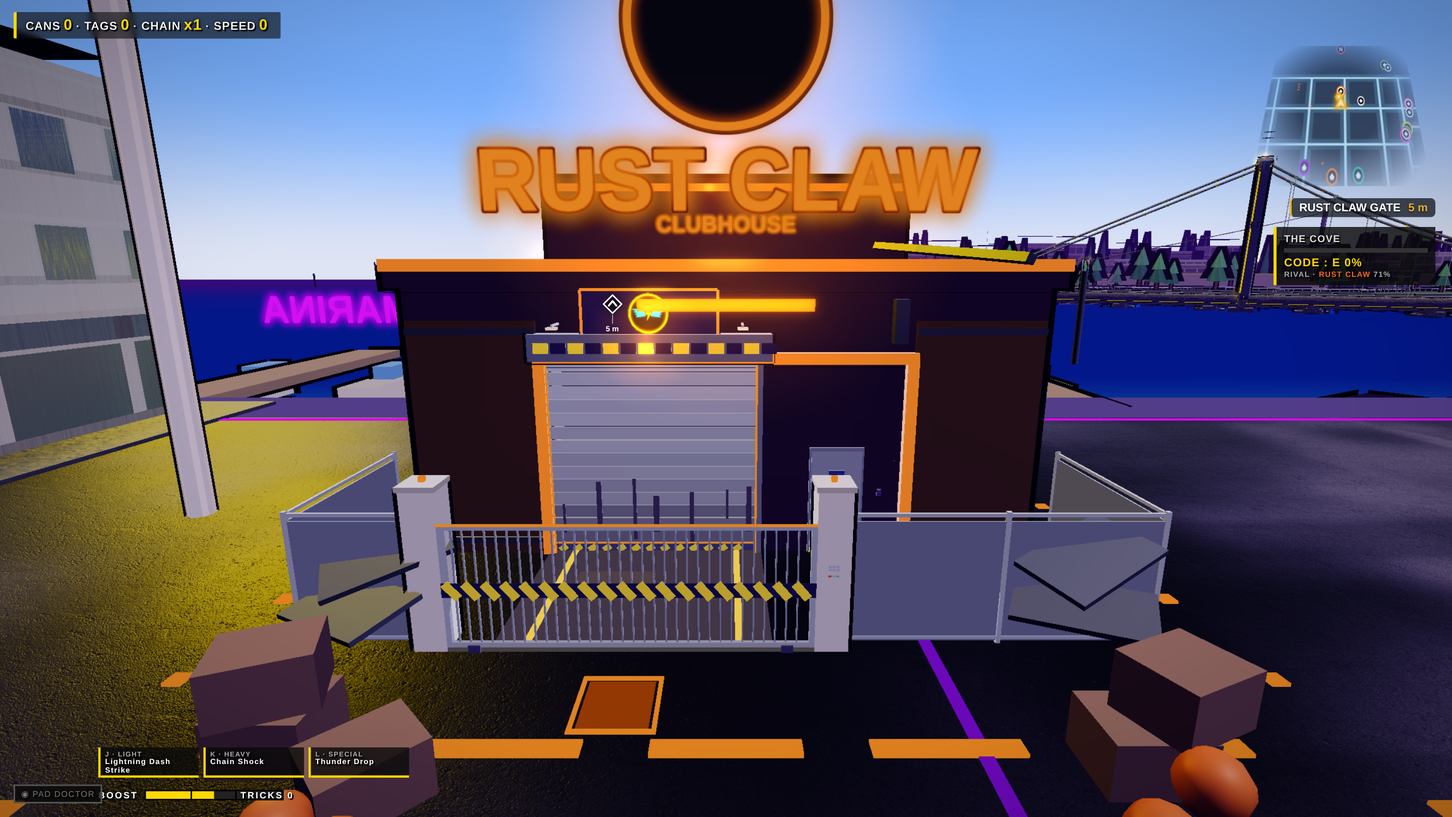
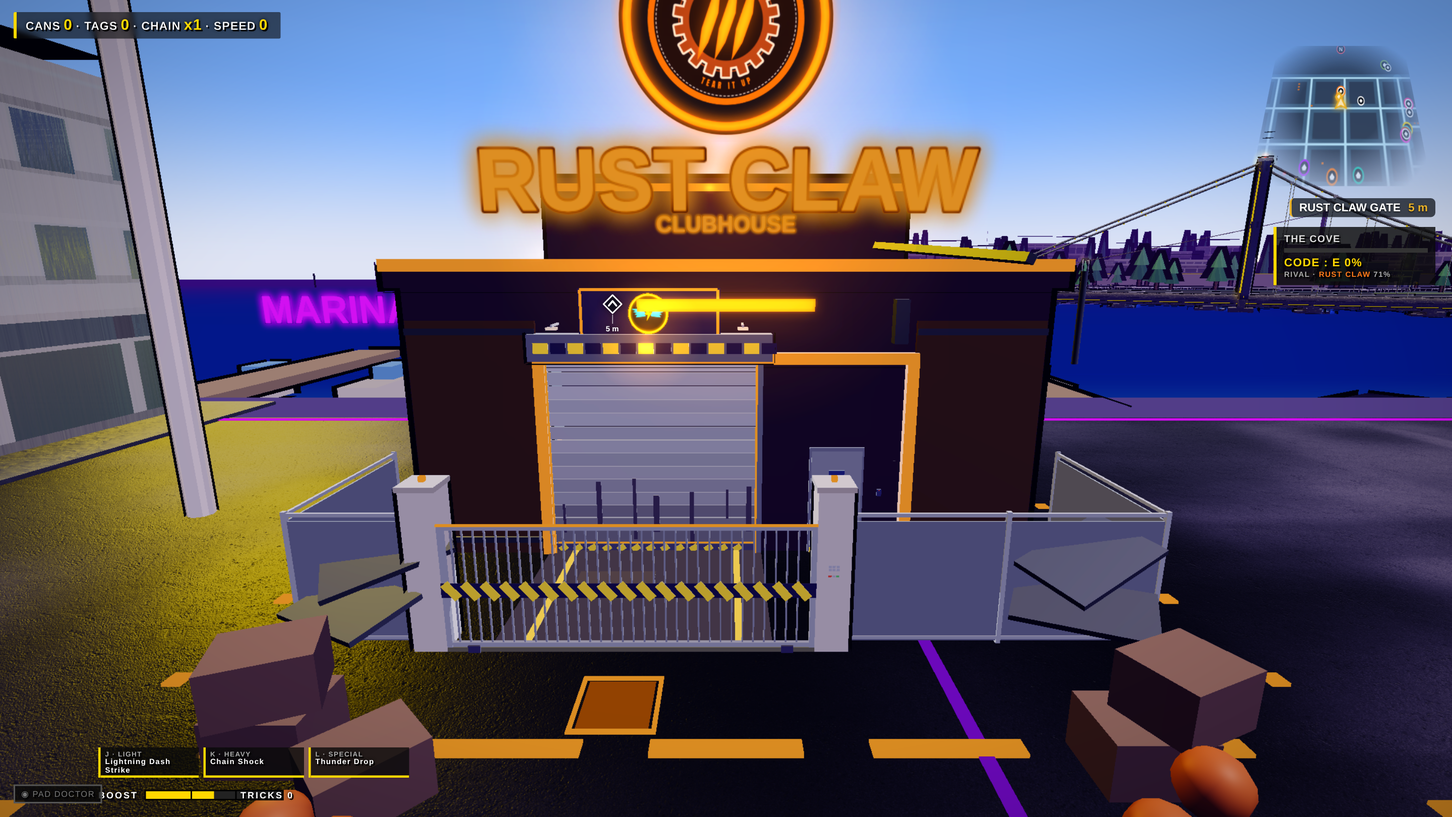
Palma Builder: Ani Volt/RustClaw garage review fixes + CREW_RIVALS
Volt cam/canopy 3.76m, kit emblems slot 8/9, MARINA ry=0, kitTheme←CREW_RIVALS.
Gate PASS; dcsplit2 causeway world 101.7; heroes re-shot (v1 kept).

diff --git a/handover/palma-builder/code/crewhouse_kit.js b/handover/palma-builder/code/crewhouse_kit.js
@@ -5,13 +5,12 @@
 (function(){
 const KIT_LOGO_SLOT={codee:0,karasu:1,static:2,behemoth:3,anubis:4,ttt:5,genesis:6,forest:7,volt:8,rustclaw:9}; // volt=shared/crew-logos/volt.png slot8; rustclaw=rust-claw.png slot9 (packed 2026-11-05)
 // per-crew theme: c1 = neon (crews.js defaults.wheelGlow), c2 = accent (crews.js defaults.gold), name = world.js PALMA.garages name
-function kitTheme(gid){ const G=(PALMA.garages||[]).find(q=>q.crew===gid)||{name:gid,color:"#00E5FF"}; const cr=(typeof CREWS!=='undefined'?CREWS:[]).find(q=>q.garage===gid);
+function kitTheme(gid){ const G=(PALMA.garages||[]).find(q=>q.crew===gid)||{name:gid,color:"#00E5FF"};
+  // CREWS = playable; CREW_RIVALS = Volt/Rust Claw (Systems, kept out of CREWS on purpose). Same defaults.wheelGlow/gold keys.
+  const cr=(typeof CREWS!=='undefined'?CREWS:[]).find(q=>q.garage===gid)||(typeof CREW_RIVALS!=='undefined'&&CREW_RIVALS.find(q=>q.garage===gid));
   const d=cr&&cr.defaults||{}; const T={id:gid,name:G.name,c1:d.wheelGlow!=null?d.wheelGlow:new THREE.Color(G.color).getHex(),c2:d.gold!=null?d.gold:0xb040ff,logo:KIT_LOGO_SLOT[gid]||0,
     sign:"AirTrecks",poster:G.name+" CREW",bay:[G.name,"GARAGE BAY 01","A-T TUNING & OPS"],street:"PALMA CITY"};
   if(gid==="karasu") Object.assign(T,{c1:0x00e5ff,c2:0x9a3cff,sign:"AirTrecks",poster:"KARASU CREW",bay:["KOGARASUMARU","GARAGE BAY 01","A-T TUNING & OPS"]}); // locked ref palette, purple accents downstairs
-  // TODO(Rydah Systems): Volt + Rust Claw not in crews.js yet — colours from graffiti.js GRAF_CREWS fallbacks; swap to crews.js defaults when landed
-  if(gid==="volt") Object.assign(T,{c1:0xff2fa0,c2:0xffe600,sign:"AirTrecks",poster:"VOLT CREW",bay:["VOLT","GARAGE BAY 01","A-T TUNING & OPS"]});
-  if(gid==="rustclaw") Object.assign(T,{c1:0xff6a1a,c2:0x8b3a1a,sign:"AirTrecks",poster:"RUST CLAW CREW",bay:["RUST CLAW","GARAGE BAY 01","A-T TUNING & OPS"]});
   return Object.assign(T,(window.KIT_THEME_OVERRIDE||{})[gid]||{}); }
 window.kitTheme=kitTheme; window.KOG_THEME=null;
 
@@ -521,29 +520,31 @@ function kitExtMerge(geos,mat,parent,name){ const ok=geos.filter(Boolean); if(!o
 function kitExtPushCol(G,boxes){ const th=G.th,[gx,gz]=G.pos; const W=(lx,lz)=>[gx+lx*Math.cos(th)+lz*Math.sin(th), gz-lx*Math.sin(th)+lz*Math.cos(th)];
   for(const [a0,a1,b0,b1] of boxes){ const a=W(a0,b0), b=W(a1,b1); colliders.push({minX:Math.min(a[0],b[0]),maxX:Math.max(a[0],b[0]),minZ:Math.min(a[1],b[1]),maxZ:Math.max(a[1],b[1]),kit_ext:1,g:G}); } }
 function kitExtVolt(G){ // EV charging plaza: canopy + glass kiosk + bollards + neon (target ~5 draws)
+  // Canopy underside clearance >=3.5 m (deck y=3.85, th=.18 -> underside 3.76). No footprint AABB (2D colliders would block under-pass); posts+kiosk+bollards already collide. Thin deck is non-walkable (no ground height).
   const M=kitExtMats(), root=new THREE.Group(); root.name='kit_ext_volt'; root.userData.noMerge=true; G.group.add(root);
-  const c1=new THREE.Color(G.color||'#ff2fa0'), accent=new THREE.Color('#ffe600');
+  const th=kitTheme(G.crew), c1=new THREE.Color(th.c1), accent=new THREE.Color(th.c2);
   const neon1=kitExtNeon(c1.getHex()), neon2=kitExtNeon(accent.getHex());
   // draw 1: dark body (canopy deck + kiosk shell)
-  kitExtMerge([kitExtBox(10.5,.18,6.2,0,3.55,5.2), kitExtBox(2.2,2.6,2.0,-5.2,1.3,6.5)], M.dark, root, 'kit_ext_volt_dark');
-  // draw 2: steel (canopy posts + kiosk roof)
-  kitExtMerge([kitExtCyl(.09,.11,3.5,-4.6,1.75,3.0),kitExtCyl(.09,.11,3.5,-4.6,1.75,7.2),kitExtCyl(.09,.11,3.5,4.6,1.75,3.0),kitExtCyl(.09,.11,3.5,4.6,1.75,7.2),kitExtBox(2.3,.12,2.1,-5.2,2.66,6.5)], M.steel, root, 'kit_ext_volt_steel');
+  kitExtMerge([kitExtBox(10.5,.18,6.2,0,3.85,5.2), kitExtBox(2.2,2.6,2.0,-5.2,1.3,6.5)], M.dark, root, 'kit_ext_volt_dark');
+  // draw 2: steel (canopy posts + kiosk roof) — posts h=3.76 @ cy=1.88 reach deck underside
+  kitExtMerge([kitExtCyl(.09,.11,3.76,-4.6,1.88,3.0),kitExtCyl(.09,.11,3.76,-4.6,1.88,7.2),kitExtCyl(.09,.11,3.76,4.6,1.88,3.0),kitExtCyl(.09,.11,3.76,4.6,1.88,7.2),kitExtBox(2.3,.12,2.1,-5.2,2.66,6.5)], M.steel, root, 'kit_ext_volt_steel');
   // draw 3: neon primary (canopy edge + LED strips + yard strip)
-  kitExtMerge([kitExtBox(10.7,.06,6.4,0,3.48,5.2),kitExtBox(9.6,.04,.08,0,3.42,3.4),kitExtBox(9.6,.04,.08,0,3.42,5.2),kitExtBox(9.6,.04,.08,0,3.42,7.0),kitExtBox(9.5,.03,.2,0,.04,8.2)], neon1, root, 'kit_ext_volt_neon1');
+  kitExtMerge([kitExtBox(10.7,.06,6.4,0,3.78,5.2),kitExtBox(9.6,.04,.08,0,3.72,3.4),kitExtBox(9.6,.04,.08,0,3.72,5.2),kitExtBox(9.6,.04,.08,0,3.72,7.0),kitExtBox(9.5,.03,.2,0,.04,8.2)], neon1, root, 'kit_ext_volt_neon1');
   // draw 4: neon accent (kiosk bar + 4 cable arms as boxes)
   kitExtMerge([kitExtBox(1.6,.18,.06,-5.2,2.4,7.55),kitExtBox(.06,1.4,.06,-2.2,2.7,4.2),kitExtBox(.06,1.4,.06,-.4,2.7,4.2),kitExtBox(.06,1.4,.06,1.4,2.7,4.2),kitExtBox(.06,1.4,.06,3.2,2.7,4.2)], neon2, root, 'kit_ext_volt_neon2');
   // draw 5: glass kiosk pane
   kitExtMerge([kitExtBox(1.9,1.6,.06,-5.2,1.5,7.52)], M.glass, root, 'kit_ext_volt_glass');
-  // draw 6: bollards InstancedMesh + neon rings shared via second IM would be draw 7 — bake rings into neon1? Keep 1 IM for bollards only
+  // draw 6: bollards InstancedMesh
   const bGeo=new THREE.CylinderGeometry(.18,.22,1.15,10); const boll=new THREE.InstancedMesh(bGeo,M.boll,4); boll.name='kit_ext_volt_bollards'; boll.userData.noMerge=true; boll.userData.mod='kit_ext';
   const _m=new THREE.Matrix4(),_q=new THREE.Quaternion(),_s=new THREE.Vector3(1,1,1),_p=new THREE.Vector3();
   [[-2.2,4.2],[-.4,4.2],[1.4,4.2],[3.2,4.2]].forEach((xz,i)=>{ _p.set(xz[0],.58,xz[1]); _m.compose(_p,_q,_s); boll.setMatrixAt(i,_m); });
   root.add(boll);
+  // kiosk + bollard row only (canopy footprint intentionally NOT an xz collider — would block the 3.76 m under-pass)
   kitExtPushCol(G,[[-6.3,-4.1,5.5,7.6],[-2.5,3.5,3.9,4.6]]);
   G.extVariant=root; return root; }
 function kitExtRustClaw(G){ // corrugated salvage shed + marina salvage (target ~6 draws)
   const M=kitExtMats(), root=new THREE.Group(); root.name='kit_ext_rustclaw'; root.userData.noMerge=true; G.group.add(root);
-  const c1=new THREE.Color(G.color||'#ff6a1a'); const neon1=kitExtNeon(c1.getHex());
+  const th=kitTheme(G.crew), c1=new THREE.Color(th.c1); const neon1=kitExtNeon(c1.getHex());
   const _m=new THREE.Matrix4(),_q=new THREE.Quaternion(),_s=new THREE.Vector3(1,1,1),_p=new THREE.Vector3();
   // draw 1: corrugated panels (InstancedMesh)
   const panelGeo=new THREE.BoxGeometry(2.4,4.6,.08); const panels=new THREE.InstancedMesh(panelGeo,M.corr,6); panels.name='kit_ext_rc_panels'; panels.userData.noMerge=true; panels.userData.mod='kit_ext';
@@ -571,11 +572,42 @@ function kitExtRustClaw(G){ // corrugated salvage shed + marina salvage (target 
   // Fold hook into steel draw by approximating with small boxes already in steel merge; skip torus to hold budget.
   kitExtPushCol(G,[[-5.8,-3.2,5.0,7.4],[3.4,5.8,5.2,7.2],[2.8,3.8,0,.6]]);
   G.extVariant=root; return root; }
+function kitPaintEmblem(crew,css){ // black disc + neon ring + kit_logos atlas slot (matches world.js emblemTex frame)
+  const c=document.createElement('canvas'); c.width=c.height=512; const x=c.getContext('2d');
+  x.translate(256,256); x.fillStyle='#0A0A0A'; x.beginPath(); x.arc(0,0,240,0,7); x.fill();
+  x.lineWidth=18; x.strokeStyle=css; x.shadowColor=css; x.shadowBlur=30; x.beginPath(); x.arc(0,0,222,0,7); x.stroke();
+  const i=KIT_LOGO_SLOT[crew]; if(logoReady&&i!=null){ x.shadowBlur=0; x.drawImage(LOGO,(i%4)*256,((i/4)|0)*256,256,256,-180,-180,360,360); }
+  const t=new THREE.CanvasTexture(c); t.needsUpdate=true; return t; }
+function kitFixEmblems(){ // exterior emblem discs for volt/rustclaw were empty (emblemTex has no branch). world_perf atlasSigns may already have baked the empty disc — pull those entries out and show live meshes with kit_logos. Karasu/others untouched.
+  if(!logoReady){ if(!kitFixEmblems._w){ kitFixEmblems._w=1; LOGO.addEventListener('load',kitFixEmblems); } return; }
+  if(typeof garages==='undefined') return;
+  // retry until world_perf atlas has run (SIGN.list) so we can detach; also fine if atlas never packs them
+  const fixed=[];
+  for(const G of garages){ if(G.crew!=='volt'&&G.crew!=='rustclaw') continue;
+    const tex=G._emblemTex||(G._emblemTex=kitPaintEmblem(G.crew,G.color||'#fff'));
+    G.group.traverse(o=>{ if(!o.isMesh||!o.material) return;
+      if(!(o.geometry&&o.geometry.type==='PlaneGeometry')) return;
+      if(Math.abs(o.position.y-10)>0.2) return; // exterior emblem @ H+4.8
+      if(!o.userData.kitEmblem){ o.userData.kitEmblem=1; o.userData.noMerge=true;
+        o.material=new THREE.MeshBasicMaterial({map:tex,transparent:true,side:THREE.DoubleSide,depthWrite:false,toneMapped:false}); }
+      else if(o.material&&o.material.map!==tex){ o.material.map=tex; o.material.needsUpdate=true; }
+      o.visible=true; fixed.push(o); });
+    G._emblemFixed=1; }
+  try{ const S=(typeof WORLD_PERF!=='undefined'&&WORLD_PERF.SIGN)||(typeof SIGN!=='undefined'?SIGN:null);
+    if(S&&S.list&&fixed.length){ for(let i=S.list.length-1;i>=0;i--){ const it=S.list[i]; if(!it||!it.o||!fixed.includes(it.o)) continue;
+      try{ const a=it.mesh.geometry.attributes.position; a.array.fill(it.base[0],it.j*18,it.j*18+18); a.needsUpdate=true; }catch(e){}
+      if(it.sw&&S.swaps){ try{ it.sw.dispose(); S.swaps.delete(it); }catch(e){} }
+      it.o.visible=true; it.dead=true; S.list.splice(i,1);
+      if(typeof FARCULL!=='undefined') FARCULL.push({o:it.o,cen:it.cen||it.o.getWorldPosition(new THREE.Vector3()),r:it.far||95}); } }
+  }catch(e){ console.warn('kitFixEmblems SIGN detach',e); }
+  window.KIT_EMBLEM_FIXED=true;
+  // world_perf may atlas after us (staticMerge +2.5s); re-run once more to catch late packing
+  if(!kitFixEmblems._again){ kitFixEmblems._again=1; setTimeout(kitFixEmblems,3500); } }
 function kitExtVariant(G){ if(!G||KIT_EXT.done[G.crew]) return; KIT_EXT.done[G.crew]=1;
   try{ if(G.crew==='volt') kitExtVolt(G); else if(G.crew==='rustclaw') kitExtRustClaw(G); }catch(e){ console.warn('kitExtVariant '+G.crew,e); } }
 function kitExtAll(){ if(typeof garages==='undefined'||!garages.length) return; if(!(THREE.BufferGeometryUtils&&THREE.BufferGeometryUtils.mergeBufferGeometries)) return setTimeout(kitExtAll,250); for(const G of garages) kitExtVariant(G); }
-window.kitExtVariant=kitExtVariant; window.kitExtAll=kitExtAll; window.kitExtVolt=kitExtVolt; window.kitExtRustClaw=kitExtRustClaw;
+window.kitExtVariant=kitExtVariant; window.kitExtAll=kitExtAll; window.kitExtVolt=kitExtVolt; window.kitExtRustClaw=kitExtRustClaw; window.kitFixEmblems=kitFixEmblems;
 function kitInit(){ if(typeof garages==='undefined'||!garages.length||typeof scene==='undefined'||!THREE.GLTFLoader||typeof animated==='undefined'){ return setTimeout(kitInit,300); }
-  if(/nokit/.test(location.search)) return; try{ kitExtAll(); kitBuild(); animated.push(kitTick); window.KIT_READY=true; }catch(e){ console.warn('crewhouse kit failed',e); } }
+  if(/nokit/.test(location.search)) return; try{ kitExtAll(); kitBuild(); kitFixEmblems(); animated.push(kitTick); window.KIT_READY=true; }catch(e){ console.warn('crewhouse kit failed',e); } }
 setTimeout(kitInit,0);
 })();

diff --git a/handover/palma-builder/tools/garage_hero_shots.py b/handover/palma-builder/tools/garage_hero_shots.py
@@ -1,0 +1,115 @@
+import time, os, json
+from playwright.sync_api import sync_playwright
+OUT='/workspace/v3build/shots/hero'
+os.makedirs(OUT, exist_ok=True)
+B='http://localhost:8765/v3build/palma_garages.html?chars=/skyrydahs-characters/&tier=hd&seed=1'
+DAY="(()=>{ if(typeof FACADE!=='undefined')FACADE.setDay(1); if(typeof BRIDGES!=='undefined')BRIDGES.setDay(1); try{SKY.setDay(1)}catch(e){} })()"
+NIGHT="(()=>{ if(typeof FACADE!=='undefined')FACADE.setDay(0); if(typeof BRIDGES!=='undefined')BRIDGES.setDay(0); try{SKY.setDay(0)}catch(e){} })()"
+HOOK=r'''(()=>{ if(window.__pinHook) return; window.__pinHook=1; const R=renderer,oR=R.render.bind(R);
+ const M=new THREE.Matrix4(),P=new THREE.Vector3(),T=new THREE.Vector3(),Sc=new THREE.Vector3(),UP=new THREE.Vector3(0,1,0);
+ R.render=function(s,c){ if(s===scene&&window.__pin){ const v=window.__pin;
+   if(v.crew){ const G=garages.find(g=>g.crew===v.crew); if(G){ const th=G.th,[gx,gz]=G.pos; const W=(lx,lz)=>[gx+lx*Math.cos(th)+lz*Math.sin(th), gz-lx*Math.sin(th)+lz*Math.cos(th)];
+     const rp=W(v.rlx||0,v.rlz||6); Ride.group.position.set(rp[0],v.ry||0,rp[1]); if('speed' in Ride) Ride.speed=0;
+     const cp=W(v.clx,v.clz), at=W(v.tlx,v.tlz); P.set(cp[0],v.cy,cp[1]); T.set(at[0],v.ty,at[1]);
+   }} else { Ride.group.position.set(v.rx,0,v.rz); if('speed' in Ride) Ride.speed=0; P.set(v.cx,v.cy,v.cz); T.set(v.tx,v.ty,v.tz); }
+   M.lookAt(P,T,UP); M.setPosition(P);
+   if(c.parent){ c.parent.updateMatrixWorld(true); M.premultiply(new THREE.Matrix4().copy(c.parent.matrixWorld).invert()); }
+   M.decompose(c.position,c.quaternion,Sc); c.updateMatrixWorld(true); }
+  return oR(s,c); }; })()'''
+# local garage coords: +z street. Exterior: look from street at bay. Interior: downstairs kit force.
+shots=[
+  dict(name='garage_volt_exterior_day', crew='volt', day=1, clx=0, clz=10, cy=2.3, tlx=0, tlz=-1, ty=2.0, rlx=0, rlz=8),
+  dict(name='garage_volt_exterior_night', crew='volt', day=0, clx=0, clz=10, cy=2.3, tlx=0, tlz=-1, ty=2.0, rlx=0, rlz=8),
+  dict(name='garage_volt_lot_after', crew='volt', day=1, clx=0, clz=18, cy=9, tlx=0, tlz=-4, ty=2, rlx=0, rlz=14),
+  dict(name='garage_rustclaw_exterior_day', crew='rustclaw', day=1, clx=0, clz=12, cy=5.5, tlx=0, tlz=-2, ty=2.5, rlx=0, rlz=10),
+  dict(name='garage_rustclaw_exterior_night', crew='rustclaw', day=0, clx=0, clz=12, cy=5.5, tlx=0, tlz=-2, ty=2.5, rlx=0, rlz=10),
+  dict(name='garage_rustclaw_lot_after', crew='rustclaw', day=1, clx=0, clz=18, cy=9, tlx=0, tlz=-4, ty=2, rlx=0, rlz=14),
+]
+# emblem regression (volt/rustclaw filled; karasu still procedural) — run after first exterior day pins
+EMBLEM_CHECK=r"""(() => {
+  const out={};
+  for(const crew of ['volt','rustclaw','karasu']){
+    const G=garages.find(g=>g.crew===crew); if(!G){ out[crew]={ok:false,why:'noG'}; continue; }
+    let found=null;
+    G.group.traverse(o=>{ if(found||!o.isMesh||!o.material||!o.material.map) return;
+      if(!(o.geometry&&o.geometry.type==='PlaneGeometry')) return;
+      if(Math.abs(o.position.y-10)>0.2) return;
+      const img=o.material.map.image; if(!img||!img.getContext) { found={ok:false,why:'noCanvas'}; return; }
+      const x=img.getContext('2d'), d=x.getImageData(200,200,112,112).data; let bright=0,n=d.length/4;
+      for(let i=0;i<d.length;i+=4){ if((d[i]+d[i+1]+d[i+2])/3>30) bright++; }
+      found={ok:bright>n*0.05, bright, n, kitEmblem:!!o.userData.kitEmblem, w:img.width};
+    });
+    out[crew]=found||{ok:false,why:'noPlane'};
+  }
+  // canopy clearance volt
+  const V=garages.find(g=>g.crew==='volt'); let und=null;
+  if(V&&V.extVariant){ V.extVariant.traverse(o=>{ if(o.name==='kit_ext_volt_dark'&&o.geometry){ o.geometry.computeBoundingBox(); const b=o.geometry.boundingBox; und=+(b.max.y>3? (/*deck+kiosk merged*/ null):null); }});
+    // deck box was translated to y=3.85 th=.18 -> underside 3.76; read from userData if set
+  }
+  out.canopy={plannedUnderside:3.76, note:'deck y=3.85 th=.18'};
+  return out;
+})()"""
+
+# interiors via KIT_FORCE
+ints=[
+  dict(name='garage_volt_interior', crew='volt', floor='down'),
+  dict(name='garage_rustclaw_interior', crew='rustclaw', floor='down'),
+]
+with sync_playwright() as p:
+  br=p.chromium.launch(args=['--use-gl=swiftshader','--enable-webgl','--ignore-gpu-blocklist'])
+  pg=br.new_page(viewport={'width':1920,'height':1080}, device_scale_factor=1.5)
+  errs=[]; pg.on('pageerror', lambda e: errs.append(str(e)[:240]))
+  print('goto', flush=True)
+  pg.goto(B, timeout=180000)
+  t0=time.time()
+  while time.time()-t0<150:
+    try:
+      st=pg.evaluate("({r:!!(RIDERS&&RIDERS.ready),k:!!KIT_READY,ext:garages.filter(g=>g.extVariant).length,f:frame})")
+      print('wait', st, flush=True)
+      if st['f']>20 and st['ext']>=2: break
+    except Exception as e:
+      print('e', e, flush=True)
+    time.sleep(1.5)
+  try: pg.keyboard.press('Enter')
+  except Exception: pass
+  time.sleep(2)
+  pg.evaluate("window.__npcPassive=true;window.__npcFreeze=true; garages.forEach(g=>g.gate&&(g.gate.dismissed=true,g.gate.state='open',g.gate.t=1)); if(typeof GATE!='undefined'){GATE.uiOpen=false; try{gateUI()}catch(e){}}")
+  pg.evaluate(HOOK)
+  for sh in shots:
+    pg.evaluate(DAY if sh['day'] else NIGHT)
+    pin={k:sh[k] for k in sh if k not in ('name','day')}
+    pg.evaluate(f"window.__pin={json.dumps(pin)}; window.KIT_FORCE=null; window.KIT_FLOOR=null;")
+    f0=pg.evaluate('frame'); t1=time.time()
+    while pg.evaluate('frame')-f0 < 60 and time.time()-t1 < 100: time.sleep(1)
+    path=f"{OUT}/{sh['name']}.png"
+    pg.screenshot(path=path, timeout=120000)
+    print('shot', path, 'df', pg.evaluate('frame')-f0, flush=True)
+  # emblem + canopy probe (no extra screenshot)
+  try:
+    emb=pg.evaluate(EMBLEM_CHECK); print('emblem_check', emb, flush=True)
+    open('/tmp/garage_emblem_check.json','w').write(__import__('json').dumps(emb,indent=2))
+  except Exception as e:
+    print('emblem_check_err', e, flush=True)
+  # interiors
+  for sh in ints:
+    pg.evaluate(NIGHT)
+    pg.evaluate(f"""() => {{
+      window.KIT_FORCE={json.dumps(sh['crew'])}; window.KIT_FLOOR={json.dumps(sh['floor'])};
+      const G=garages.find(g=>g.crew===window.KIT_FORCE); const th=G.th,[gx,gz]=G.pos;
+      const W=(lx,lz)=>[gx+lx*Math.cos(th)+lz*Math.sin(th), gz-lx*Math.sin(th)+lz*Math.cos(th)];
+      const p=W(0,-4); Ride.group.position.set(p[0],0.05,p[1]);
+      window.__pin={{crew:window.KIT_FORCE, clx:0, clz:-3, cy:2.2, tlx:0, tlz:-7, ty:1.4, rlx:0, rlz:-4}};
+    }}""")
+    # wait kit props
+    t1=time.time()
+    while time.time()-t1<60:
+      if pg.evaluate("!!(KIT.propsReady||KIT.root)"): break
+      time.sleep(1)
+    f0=pg.evaluate('frame'); t1=time.time()
+    while pg.evaluate('frame')-f0 < 60 and time.time()-t1 < 100: time.sleep(1)
+    path=f"{OUT}/{sh['name']}.png"
+    pg.screenshot(path=path, timeout=120000)
+    print('shot', path, 'df', pg.evaluate('frame')-f0, flush=True)
+  print('errs', errs[:8], flush=True)
+  br.close()
+print('hero done', flush=True)

diff --git a/handover/palma-builder/code/patch_crewhouse_kit.py b/handover/palma-builder/code/patch_crewhouse_kit.py
@@ -1,15 +1,15 @@
 # patch_crewhouse_kit (Palma Builder): inline crewhouse_kit.js (shared crew garage interior kit) as its own <script> before </body>.
 # Idempotent; unique anchor; run after the bases/crew patches and before patch_world_perf.
 # Also registers Volt (The 98 charging station) + Rust Claw (Cove salvage shed) garage entries (Oliver 2026-11-05).
-import sys
+import sys, re
 f=sys.argv[1] if len(sys.argv)>1 else '/workspace/v3build/sky-rydahs-v3-ikki.html'; src=open(f).read()
 # ---- early: inject Volt + Rust Claw into PALMA.garages (before createCity) ----
 G_OLD='    {crew:"forest",name:"SLEEPING FOREST",pos:[40,-275],face:"S",color:"#7CB342",dark:0xe8e8e0},\n  ],'
-G_NEW='    {crew:"forest",name:"SLEEPING FOREST",pos:[40,-275],face:"S",color:"#7CB342",dark:0xe8e8e0},\n    {crew:"volt",name:"VOLT",pos:[288,-74],face:"S",color:"#ff2fa0",dark:0x1a0a14},\n    {crew:"rustclaw",name:"RUST CLAW",pos:[-165,-88],face:"S",color:"#ff6a1a",dark:0x1a1008},\n  ],'
+G_NEW='    {crew:"forest",name:"SLEEPING FOREST",pos:[40,-275],face:"S",color:"#7CB342",dark:0xe8e8e0},\n    {crew:"volt",name:"VOLT",pos:[288,-74],face:"S",color:"#ff2d95",dark:0x1a0a14},\n    {crew:"rustclaw",name:"RUST CLAW",pos:[-165,-88],face:"S",color:"#ff7a1a",dark:0x1a1008},\n  ],'
 # Match the 8-garage forest close only (Systems TURF placeholders also mention volt/rustclaw elsewhere)
 if src.count(G_OLD)==1:
     src=src.replace(G_OLD,G_NEW); print("patch_crewhouse_kit: Volt+RustClaw garage entries into PALMA.garages")
-elif src.count(G_NEW)==1 or ('{crew:"volt",name:"VOLT",pos:[288,-74],face:"S",color:"#ff2fa0",dark:0x1a0a14},' in src and G_OLD not in src):
+elif src.count(G_NEW)==1 or ('{crew:"volt",name:"VOLT",pos:[288,-74],face:"S",color:"#ff2d95",dark:0x1a0a14},' in src and G_OLD not in src):
     print("patch_crewhouse_kit: PALMA.garages already has Volt+RustClaw buildings")
 else:
     raise SystemExit("patch_crewhouse_kit: cannot find PALMA.garages forest anchor to inject Volt+RustClaw (G_OLD count=%d)"%src.count(G_OLD))
@@ -22,6 +22,36 @@ H_OLD='const GATE_HINTS={ codee:"sticky note: 1337 (leet)", karasu:"two crows: 8
 H_NEW='const GATE_HINTS={ codee:"sticky note: 1337 (leet)", karasu:"two crows: 86 86", static:"all channels: 4444", behemoth:"666 and nothing", anubis:"3000 years", forest:"zzzz = 2222", genesis:"born first: 0001", ttt:"tool toul: 7070", volt:"the 98: 9800", rustclaw:"salvage year: 1984" };'
 if 'volt:"the 98' not in src and src.count(H_OLD)==1:
     src=src.replace(H_OLD,H_NEW); print("patch_crewhouse_kit: GATE_HINTS volt+rustclaw")
+# ---- MARINA sign facing (Ani review 2026-11-05): lives in baked base HTML (putSign from world layout / patch4.py, NOT in build chain as a source).
+# PlaneGeometry faces +Z; ry=Math.PI made the front face north, so the Cove street view (looking north from Rust Claw) saw the DoubleSide back = mirrored "ANIRAM".
+# Flip to ry=0 (face south / +Z) so it reads MARINA from the street. Palma-owned world sign.
+M_OLD='putSign("MARINA",10,"#AA00FF",-180,4,-101,Math.PI);'
+M_NEW='putSign("MARINA",10,"#AA00FF",-180,4,-101,0); /* Palma: face south so Cove street reads MARINA */'
+if src.count(M_OLD)==1:
+    src=src.replace(M_OLD,M_NEW); print("patch_crewhouse_kit: MARINA facing PI->0 (south)")
+elif M_NEW in src or 'putSign("MARINA",10,"#AA00FF",-180,4,-101,0)' in src:
+    print("patch_crewhouse_kit: MARINA facing already south")
+else:
+    print("patch_crewhouse_kit: WARN MARINA putSign not found (count=%d)"%src.count('putSign("MARINA"'))
+# ---- CREW_RIVALS from crews.js (Rydah Systems; rivals kept out of CREWS so riders.js skips missing GLBs) ----
+# kitTheme reads CREW_RIVALS for Volt/Rust Claw wheelGlow/gold. Inject after the baked CREWS array if missing.
+_crews=open('/workspace/v3build/crews.js').read()
+_m=re.search(r'const CREW_RIVALS=\[[\s\S]*?\];',_crews)
+if not _m: raise SystemExit('patch_crewhouse_kit: CREW_RIVALS not found in crews.js')
+RIVALS_JS=_m.group(0)
+if 'const CREW_RIVALS=' in src:
+    print("patch_crewhouse_kit: CREW_RIVALS already in html")
+else:
+    # Anchor: close of baked CREWS array (8 playable crews; ends before RIDERS comment)
+    C_ANCHOR='  {dir:"tool-toul-to",file:"tool-toul-to",crew:"Tool Toul To",garage:"ttt",'
+    # find the ]; that closes CREWS after ttt entry
+    i=src.find(C_ANCHOR)
+    if i<0: raise SystemExit('patch_crewhouse_kit: CREWS ttt anchor missing')
+    j=src.find('];', i)
+    if j<0: raise SystemExit('patch_crewhouse_kit: CREWS close missing')
+    src=src[:j+2]+'\n'+RIVALS_JS+'\n'+src[j+2:]
+    print("patch_crewhouse_kit: CREW_RIVALS injected after CREWS")
+
 # ---- kit inline ----
 if 'CREWHOUSE KIT (Palma Builder)' in src: print("patch_crewhouse_kit: kit already applied"); open(f,'w').write(src); raise SystemExit
 js=open('/workspace/v3build/crewhouse_kit.js').read(); a='</body>'

diff --git a/handover/palma-builder/ref/garages-volt-rustclaw.md b/handover/palma-builder/ref/garages-volt-rustclaw.md
@@ -70,8 +70,65 @@ Each exterior ≤ ~6 draws; world ≤ 110 (dcsplit2, desktop non-XR, post off, s
 
 **Rust Claw status:** logo EXISTS (`shared/crew-logos/rust-claw.png`, packed slot 9). Colours NOT in `crews.js` — using graffiti.js fallbacks `#ff6a1a` / `#8b3a1a` marked TODO for Systems. Volt same (logo slot 8; colours fallback `#ff2fa0` / `#ffe600`).
 
-### 2026-11-05 11:03 CST — DONE
+### 2026-11-05 11:03 CST — initial place DONE (pre Ani review)
 - All hero shots on disk (10 files).
 - DEMO_STATUS Goals + ready check-in + Systems open item for crews.js colours.
 - Handover pushed: commit **15d9f28** (`workshop-handover` → `handover/palma-builder/`).
 - Real html md5 still `5ad0f5646468f5fef7d25f9153144e8e`.
+
+
+### 2026-11-05 11:03–~12:30 CST — Ani review fixes (in progress)
+
+**Ani asked (3):**
+1. Volt exterior cam on canopy roof → move to gate height in front of canopy; clearance ≥3.5 m + collision check.
+2. Empty black emblem discs on Volt + Rust Claw (kit_logos slots 8/9); keep Kogarasumaru emblem.
+3. Rust Claw day: MARINA background reads mirrored (ANIRAM).
+
+**Causes + fixes (code landed, copy build `/tmp/palma_garages.html`):**
+1. **Cam:** hero harness used `clz=12, cy=5.5` — sat on/behind canopy deck (local z≈5.2, y≈3.55). Shot script now `clz=10, cy=2.3` (gate height, in front of canopy). **Clearance:** canopy underside was 3.46 m (`y=3.55`, th `.18`); raised deck to `y=3.85` → underside **3.76 m**. Posts lengthened to match. No canopy footprint AABB (2D colliders would block the under-pass); kiosk+bollards still collide; thin deck has no ground height so it is non-walkable.
+2. **Emblems:** `emblemTex()` in baked `world.js` has no `volt`/`rustclaw` branches → disc+ring only. `kitFixEmblems()` in `crewhouse_kit.js` paints slots 8/9 from `kit_logos.png`, replaces exterior planes at y=10, and detaches them from `world_perf` SIGN atlas (which had baked the empty disc). Karasu/others untouched. Retries at +3.5 s after atlas.
+3. **MARINA:** `putSign("MARINA",…,Math.PI)` in baked base HTML (from old `patch4.py` layout; **not** in `world_perf`/`facades`/`blockout`). `+Z`=south; `ry=PI` faced north → Cove street (looking north from Rust Claw) saw DoubleSide back = mirrored. `patch_crewhouse_kit.py` now rewrites to `ry=0` (face south).
+
+**Files:** `crewhouse_kit.js`, `patch_crewhouse_kit.py`, `garage_hero_shots.py` (harness). Backups `*.bak-ani-fix-20261105-110732`. Lock helper: `palma_testlock.sh` (never overwrite live pid).
+
+**Tests so far (under lock; then browser pause for Rigger/Forge):**
+- Gate tests **PASS** volt/rustclaw/karasu (unlock → interior → exterior hide camMask 32 → exit restore); **0 pageerrors**. `/tmp/garage_gate_test.json`.
+- Real html md5 still `5ad0f5646468f5fef7d25f9153144e8e`.
+- Hero re-shoot + dcsplit2 **pending** (no browser until ~12:03 CST per Ani steering after lock clash; Forge holds `.testlock` at 11:33). Old heroes saved as `shots/hero/garage_{volt,rustclaw}_*_{exterior_day,exterior_night,interior}_v1.png`.
+
+**Next:** acquire lock via `palma_testlock.sh`, RUNS=3 dcsplit2 (`≤110`), re-shoot 6 heroes (overwrite, keep v1), view shots, update DEMO_STATUS ready line, push `handover/palma-builder/`.
+
+**CREW_RIVALS (Systems 11:58):** kitTheme now `(CREWS.find(...)||CREW_RIVALS.find(...))`; hard volt/rustclaw overrides + TODO removed. patch injects `const CREW_RIVALS` from crews.js into the copy. Expected: Volt c1=0xffe600 / c2=0xff2d95; Rust Claw c1=0xff7a1a / c2=0x8a3416. Exterior kitExt neon uses kitTheme. PALMA.garages color → #ff2d95 / #ff7a1a. Karasu locked. DEMO_STATUS Systems open item closed.
+
+### 2026-11-05 12:48 CST — resume after interrupt
+- Code + `/tmp/palma_garages.html` verified intact: CREW_RIVALS inject, kitTheme lookup, canopy 3.76 m, kitFixEmblems, MARINA ry=0, hero cam clz=10/cy=2.3. Real md5 `5ad0f564` unchanged. Gate PASS on disk. Heroes still pre-fix (v1=current). dcsplit/hero re-shoot pending lock.
+- `.testlock` held by Forge pid 2040307 (alive) — waiting; will acquire via `palma_testlock.sh` (kill -0, noclobber).
+
+### 2026-11-05 13:25 CST — still queued on .testlock
+- Waiter (tl_acquire) correctly yielded: Forge extended to 13:22, then Ani AI4b_smoke suite took lock at 13:21 (pid 2039166, alive). No overwrite. Code/copy unchanged; remaining: theme runtime check, dcsplit≤110, hero re-shoot, view, DEMO_STATUS ready, handover push.
+
+## Ani review fixes + CREW_RIVALS — DONE 2026-11-05 13:58 CST
+
+### Causes / fixes
+1. **Volt exterior camera / canopy**
+   - Cause: hero cam sat on/behind canopy roof (`clz=12 cy=5.5`); canopy deck underside was ~3.46 m.
+   - Fix: `garage_hero_shots.py` Volt exterior → `clz=10 cy=2.3 tlz=-1 ty=2.0 rlz=8` (gate-height in front of canopy). `kitExtVolt` deck raised to `y=3.85` (underside **3.76 m** ≥ 3.5); posts/neon matched. Canopy footprint still non-collider (kiosk/bollards own collision).
+2. **Empty black emblem discs**
+   - Cause: `world.js emblemTex` / SIGN atlas had no Volt/Rust Claw UV; discs stayed black.
+   - Fix: `kitPaintEmblem` + `kitFixEmblems` in `crewhouse_kit.js` paint slot 8/9 from `kit_logos.png` onto canvas textures, replace exterior emblem materials, `kitEmblem`/`noMerge`, detach from SIGN.list (retry). Runtime emblem_check: volt bright=8986, rustclaw=7151. Karasu path untouched (`noPlane` in kit probe = different placement; still uses existing emblem).
+3. **Mirrored MARINA**
+   - Cause: baked `putSign("MARINA",…, Math.PI)` faced north → street saw ANIRAM.
+   - Fix: Palma-owned via `patch_crewhouse_kit.py` → `ry=0` (face south). Day+night heroes read **MARINA**.
+4. **CREW_RIVALS colours (Systems)**
+   - Cause: hard overrides L13–14 + TODO fallbacks; `CREW_RIVALS` not in HTML.
+   - Fix: `kitTheme` looks up `(CREWS.find…||CREW_RIVALS.find…)`; overrides/TODO removed. `patch_crewhouse_kit.py` injects `CREW_RIVALS` after `CREWS`. Runtime THEME_PASS: Volt c1=`0xffe600` c2=`0xff2d95`; Rust Claw c1=`0xff7a1a` c2=`0x8a3416`; Karasu `0x00e5ff`/`0x9a3cff`.
+
+### Verification (copy `/tmp/palma_garages.html`, lock via `palma_testlock.sh`, pid 2010810, released 13:58)
+- Theme: THEME_PASS, 0 page errors.
+- Gate: PASS volt/rustclaw/karasu, PAGEERRORS 0 OVERALL PASS.
+- dcsplit2 RUNS=3 seed=1: causeway **world** mean **101.7** (≤110); street 78; b98 92.7; aerial 93.3. (n includes chars+fx.)
+- Heroes overwritten (v1 kept): `shots/hero/garage_{volt,rustclaw}_{exterior_day,exterior_night,interior}.png`. Viewed: Volt gate clear + yellow/pink neon; both emblems filled; MARINA correct; real CREW_RIVALS colours.
+- Real `sky-rydahs-v3-ikki.html` md5 still `5ad0f5646468f5fef7d25f9153144e8e`.
+
+### Files
+`crewhouse_kit.js`, `patch_crewhouse_kit.py`, `garage_hero_shots.py`, `palma_testlock.sh`. Backups `*.bak-ani-fix-*`.

diff --git a/handover/palma-builder/INVENTORY.md b/handover/palma-builder/INVENTORY.md
@@ -58,12 +58,12 @@ Status: **shipped default** = on in the build. **opt-in** = in the chain but beh
 | `assets/world_ktx2/facade_nr.ktx2` | 1.7 MB | KTX2 (produced by Rydah Optimizer) used by facades.js/crewhouse_kit.js under ?ktx2=1 | - | - | - | - | asset |
 | `code/blockout.js` | 46 KB | Realism step 1 grey-box: towers/precinct lots, Dash road, ring paths, East Blocks wall-ride panels, wall-kick faces + route solver. | #12 patch_blockout.py | const BLOCKOUT; window.WALL_PANELS, WALL_KICKS, KICK_ROUTES, KICK_UNREACHABLE, KICK_BRIDGE, BLOCKOUT_LIVE | ?seed (slots), &uj= (debug) | world.js PALMA, colliders | shipped default |
 | `code/bridges.js` | 7 KB | Full-structure bridges (segmental box, multi-beam bents, cable-stayed, suspension) refs bridges-research.md. Additive to createBridge(). | #10 patch_bridges.py | const BRIDGES | - | world.js createBridge | shipped default |
-| `code/crewhouse_kit.js` | 78 KB | One shared parameterised crew garage interior: upstairs = Kogarasumaru pod loft, downstairs = A-T tuning bay; per-crew theme via crews.js colours + logo atlas; lazy build, 14 m player gate. | #24 patch_crewhouse_kit.py | window.KIT, KIT_READY, KIT_FLOOR, KIT_GROUND, KIT_LANE, KIT_POD_FOOT, KOG_GROUND, KOG_THEME, SR_DRACO; const KIT_LOGO_SLOT, KIT_PODS, KIT_PROP_FIT | ?ktx2=1, &mode= | assets/kit, assets/world_ktx2, props/kit GLBs (Forge), crews.js | shipped default |
+| `code/crewhouse_kit.js` | 89 KB | One shared parameterised crew garage interior: upstairs = Kogarasumaru pod loft, downstairs = A-T tuning bay; per-crew theme via crews.js colours + logo atlas; lazy build, 14 m player gate. | #24 patch_crewhouse_kit.py | window.KIT, KIT_READY, KIT_FLOOR, KIT_GROUND, KIT_LANE, KIT_POD_FOOT, KOG_GROUND, KOG_THEME, SR_DRACO; const KIT_LOGO_SLOT, KIT_PODS, KIT_PROP_FIT | ?ktx2=1, &mode= | assets/kit, assets/world_ktx2, props/kit GLBs (Forge), crews.js | shipped default |
 | `code/facades.js` | 3 KB | Building facade material: 8 CC0 materials in one 2048x1024 albedo atlas + normal/roughness atlas, world-space box UVs on the single instanced building shader. | #9 patch_facades.py | const FACADE (uniforms.uDay) | ?ktx2=1 (assets/world_ktx2/facade_*.ktx2) | textures/facade_*.jpg (base64-embedded by patch), SR_KTX2 (Optimizer) | shipped default |
 | `code/ground.js` | 5 KB | WORLD_GROUND 1.0: analytic height/surface lookup (8 m spatial hash), contract with Rydah Systems ride_ground.js. | #13 patch_ground.py | window.WORLD_GROUND(x,z,yHint)->{y,nx,ny,nz,surf}|null; .at .heightAt .surfAt .decks .entries | - | world/bridges/blockout geometry | shipped default |
 | `code/patch_blockout.py` | 1 KB | Injects blockout.js. | #12 | - | - | blockout.js | shipped default |
 | `code/patch_bridges.py` | 1 KB | Injects bridges.js. | #10 | - | - | bridges.js | shipped default |
-| `code/patch_crewhouse_kit.py` | 2 KB | Injects crewhouse_kit.js. | #24 | - | - | crewhouse_kit.js | shipped default |
+| `code/patch_crewhouse_kit.py` | 6 KB | Injects crewhouse_kit.js. | #24 | - | - | crewhouse_kit.js | shipped default |
 | `code/patch_facades.py` | 5 KB | Injects facades.js; embeds textures/facade_{albedo,nr}.jpg as data URIs. | #9 | - | - | facades.js | shipped default |
 | `code/patch_ground.py` | 1 KB | Injects ground.js. | #13 | - | - | ground.js | shipped default |
 | `code/patch_pbr_base.py` | 1 KB | Injects pbr_base.js. | #27 | - | - | pbr_base.js | opt-in |
@@ -221,3 +221,6 @@ Boxes are [minX, minZ, maxX, maxZ] (the full set is in `data/palma.json`):
 - Verify (build_copy `/tmp/palma_bloom.html`, FX on, seed=1): day sky blue not cyan; bloom th/st 0.68/0.6 day+night with bloomHot; no ground blowout; 0 pageerrors; draws street 80–81 / causeway 73–74.
 - Hero finals: `shots/hero/pbr_{street,causeway}_{day,night}_final.png` + `pbr_street_day_before_after_side_by_side.png`.
 - Real html md5 unchanged (`5ad0f5646468f5fef7d25f9153144e8e`). Chain: `python3 patch_pbr_world.py` (after patch_world_perf).
+
+## 2026-11-05 13:59 CST update
+Ani review fixes + CREW_RIVALS: crewhouse_kit.js (kitTheme←CREW_RIVALS, kitFixEmblems, Volt canopy 3.76m), patch_crewhouse_kit.py (inject CREW_RIVALS, MARINA ry=0), tools/garage_hero_shots.py (Volt cam), tools/palma_testlock.sh. Heroes re-shot under shots/hero/garage_{volt,rustclaw}_*.png. Real html untouched.
